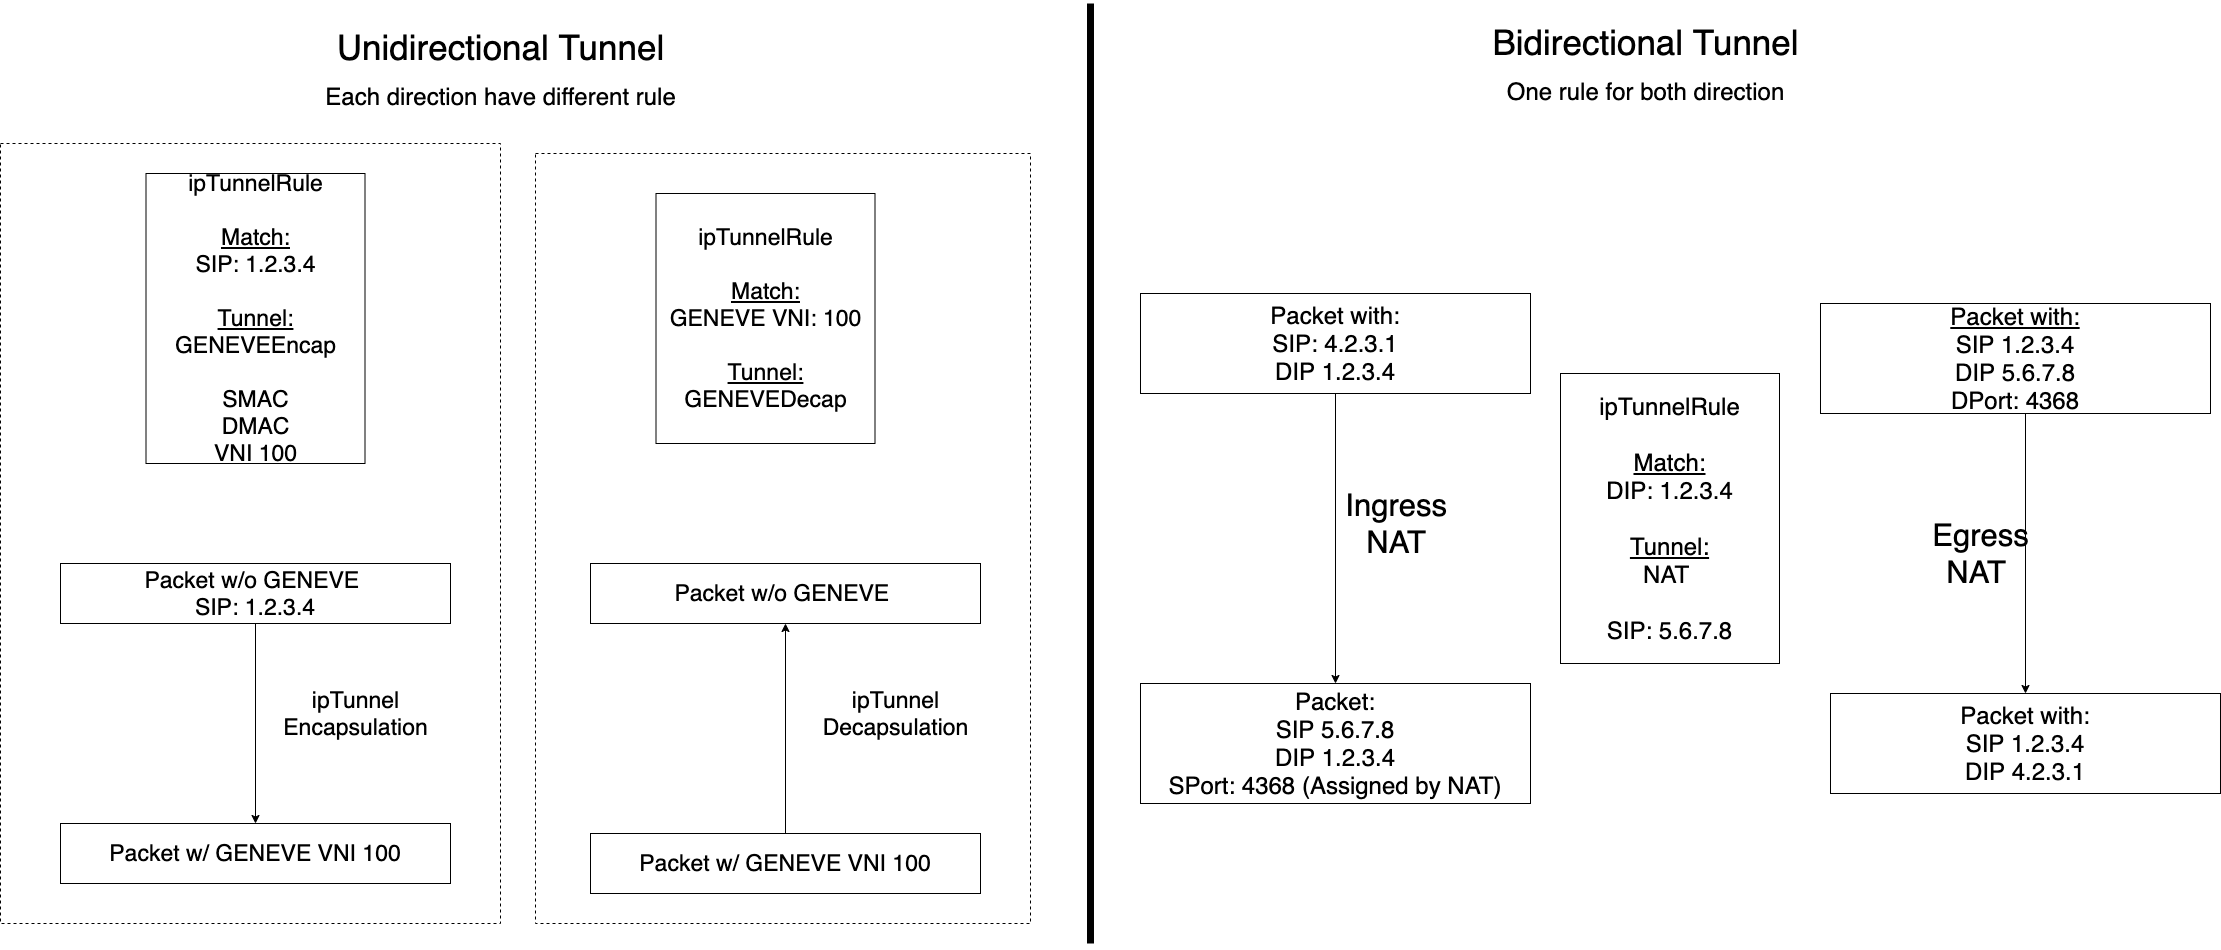
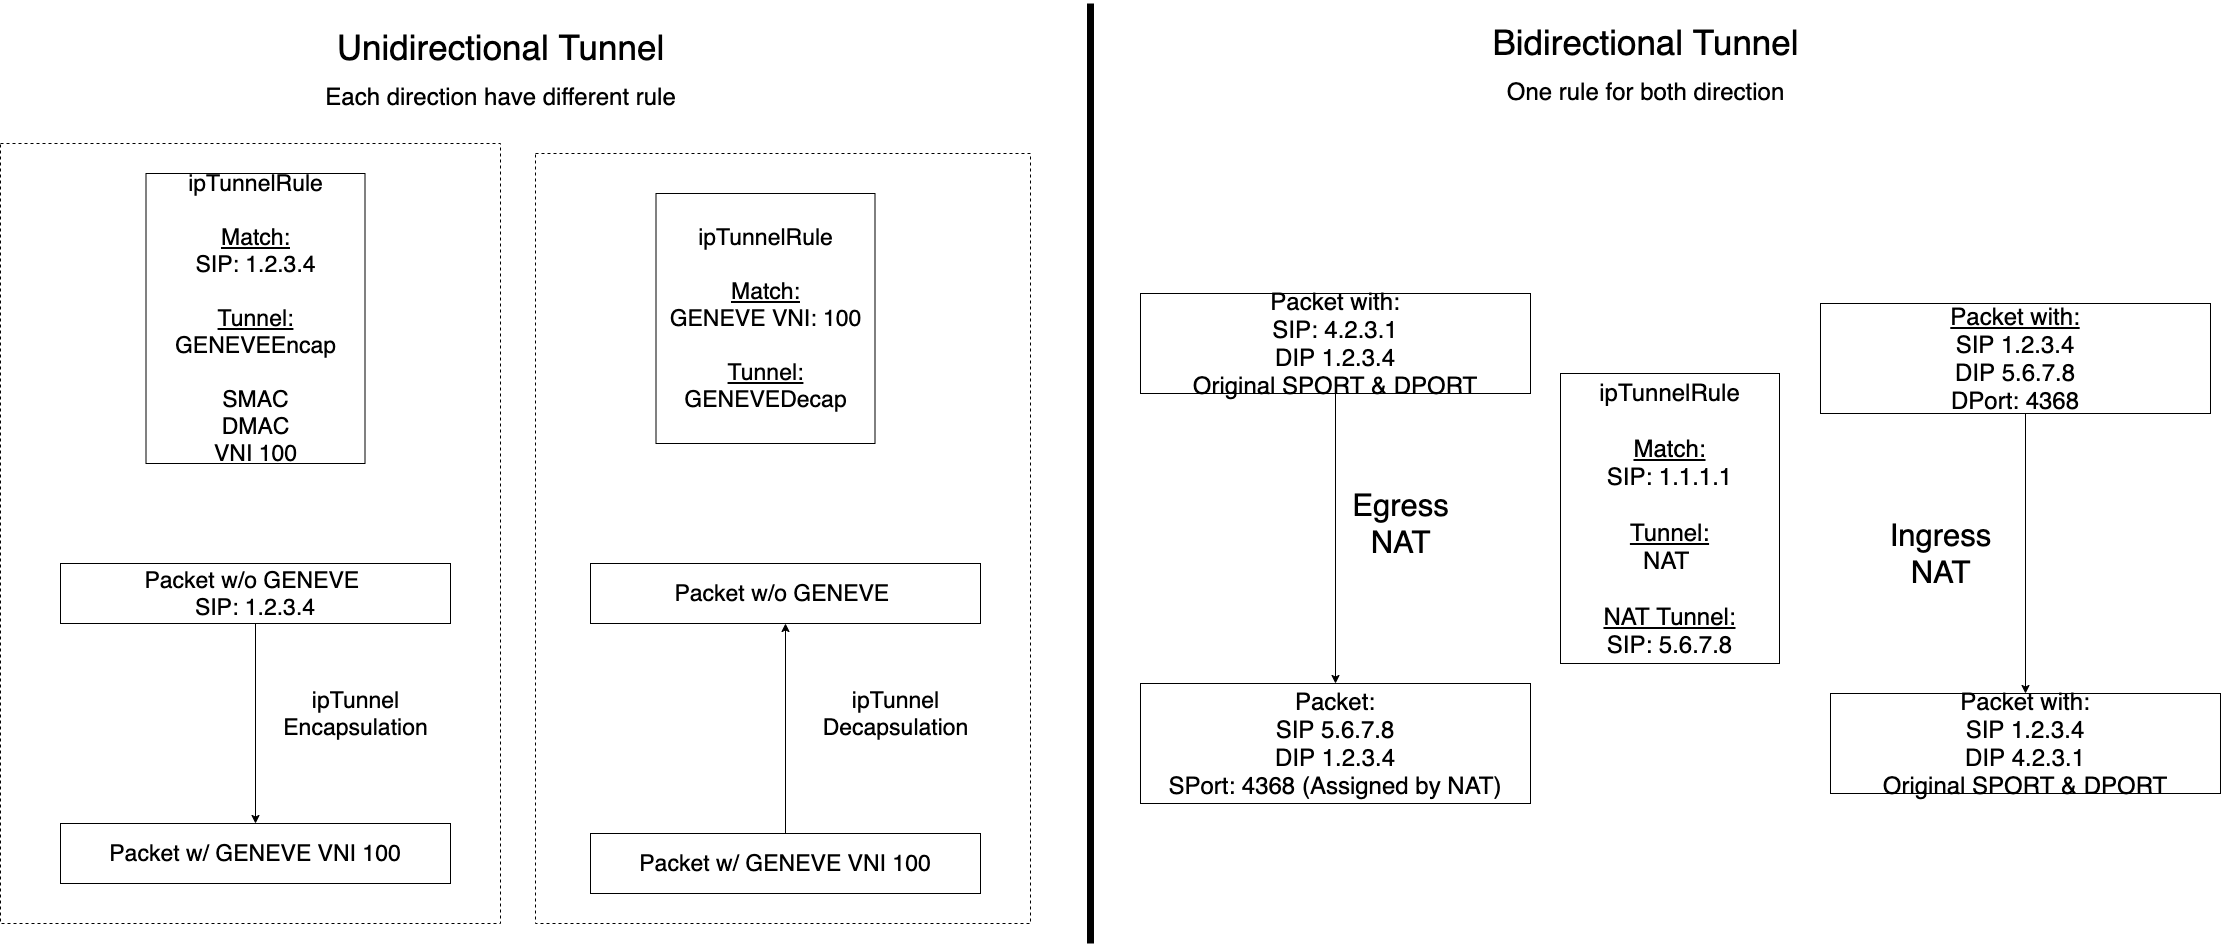
Misc fixes done with Aran

diff --git a/doc/Tunnels_Offload.md b/doc/Tunnels_Offload.md
@@ -100,7 +100,7 @@ message GENEVE {
 *Upon a match, the user decides to perform encapsulation / decapsulation, GENEVE is comprised of two distinct messages, 
 choosing one of them decide about the tunnel operation*
 
-NAT is an example where the device is both encapsulating / decapsulating the tunnels.
+NAT is an example where the device is both encapsulating / decapsulating the tunnels and this is a bidirectional tunnel.
 
 ```
 message NAT {
@@ -109,6 +109,10 @@ message NAT {
 ```
 
 *In NAT example, ipTunnelRule will be used for both encapsulation / decapsulation*
+
+In a NAT example (of bidirectional tunnel), the match will be used for egress traffic only, and a packet that will be matched on it will perform NAT.
+
+After maching on egress, the NAT will write the rule for ingress matching, and this will yield on matching of ingress tunnel (see example below).
 
 ![Matching](images/tunnelOffload/uni_bi_directional_tunnel.png)
 
